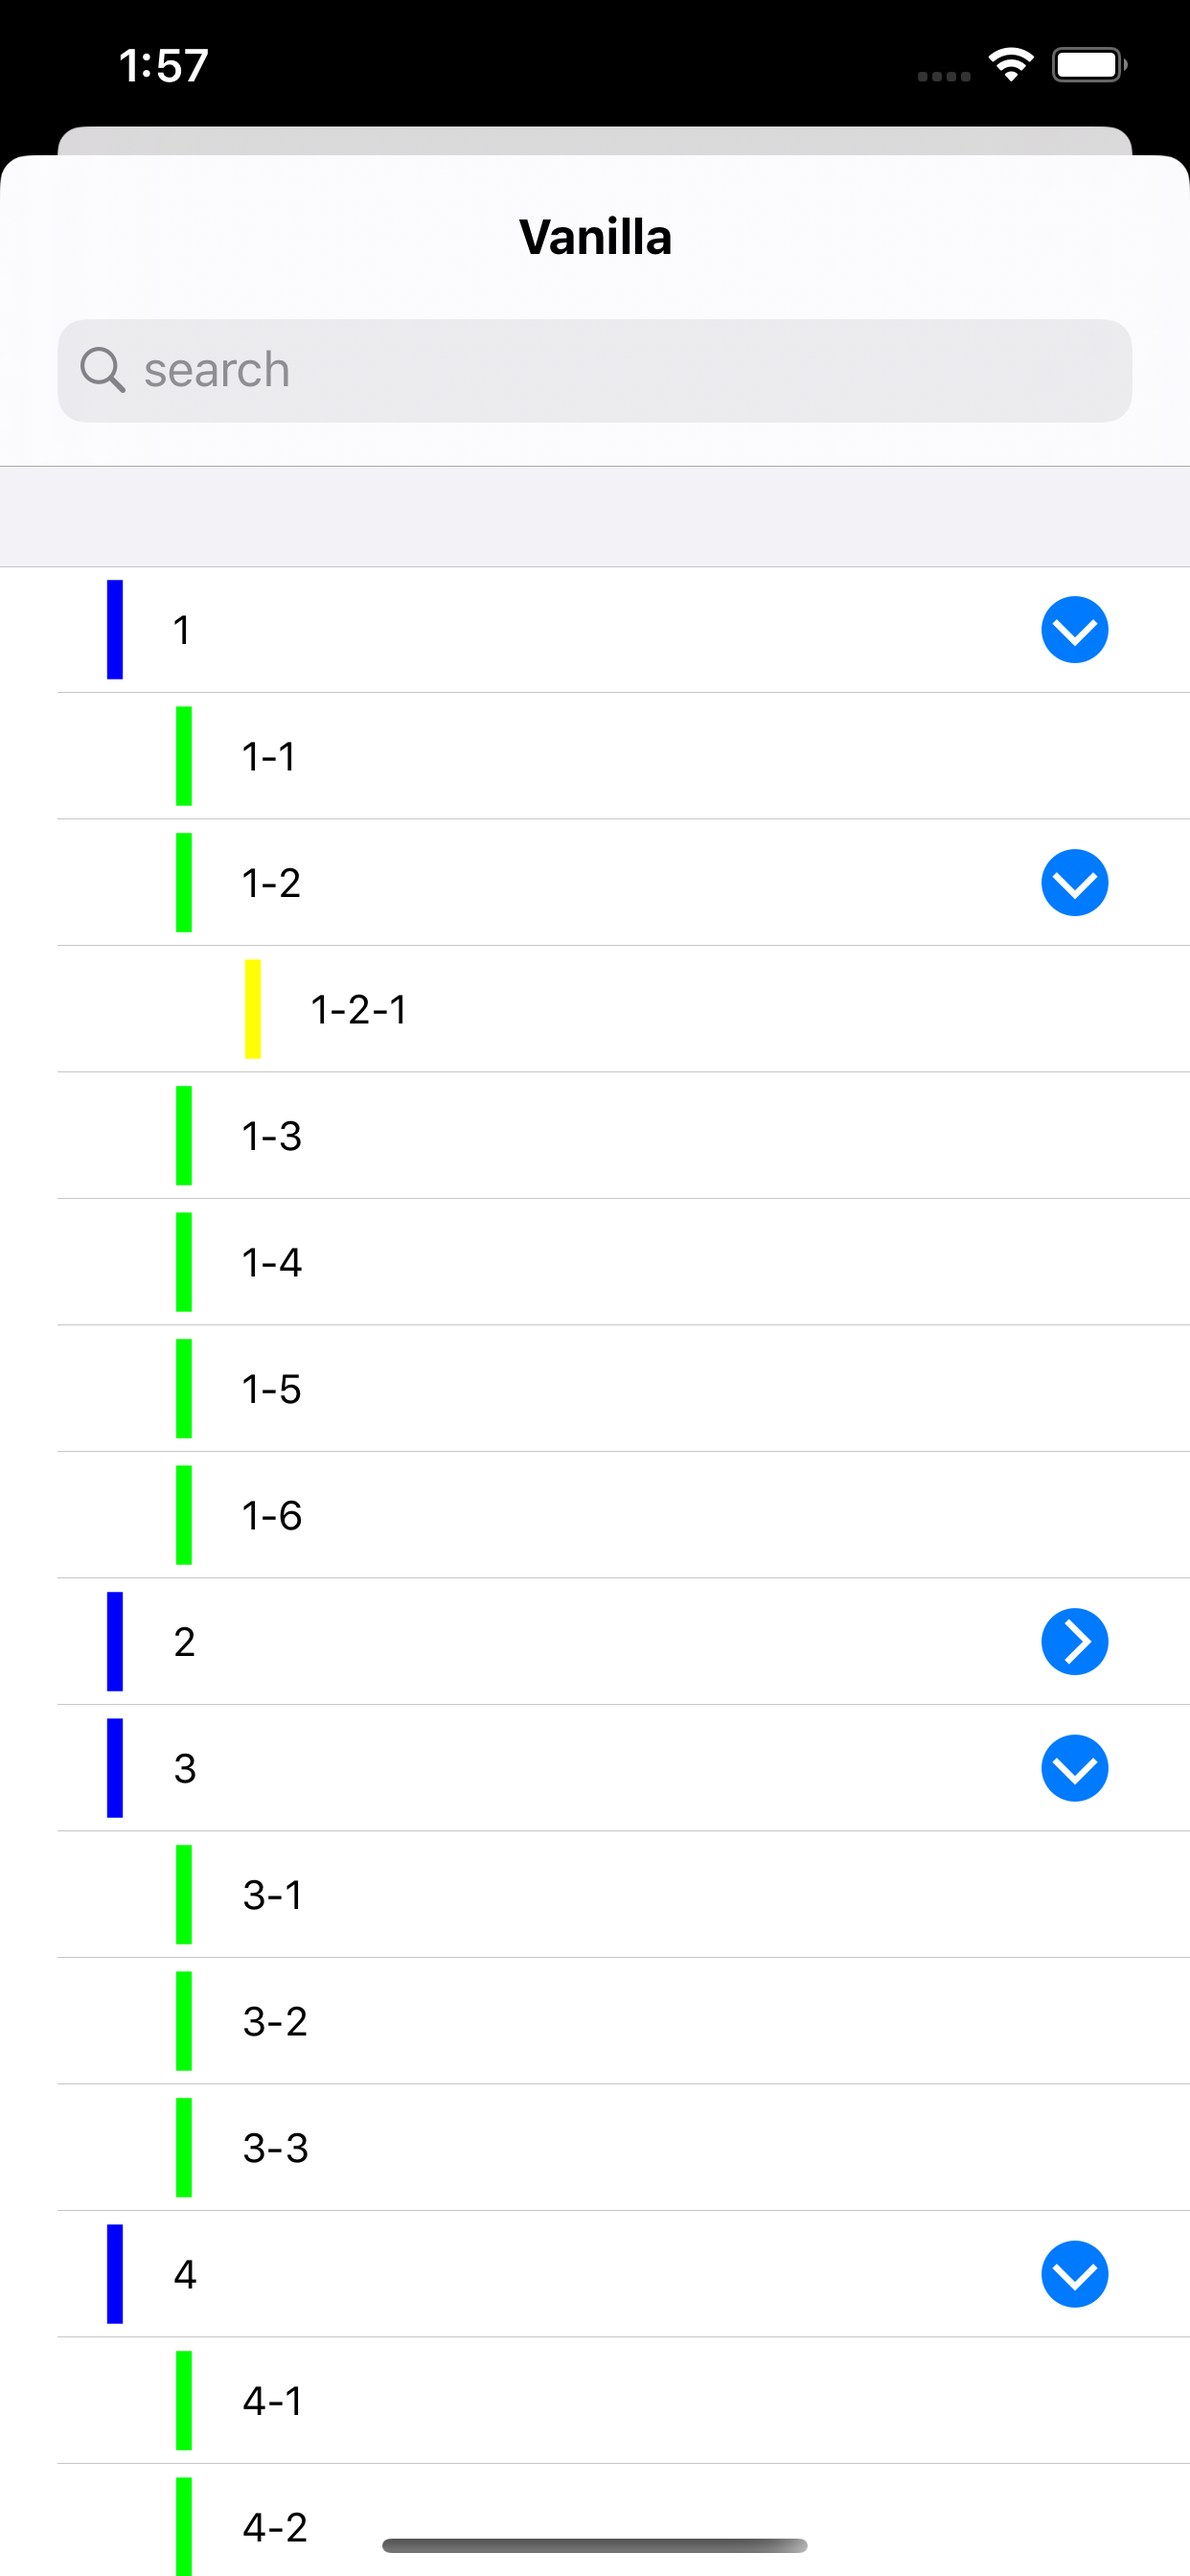
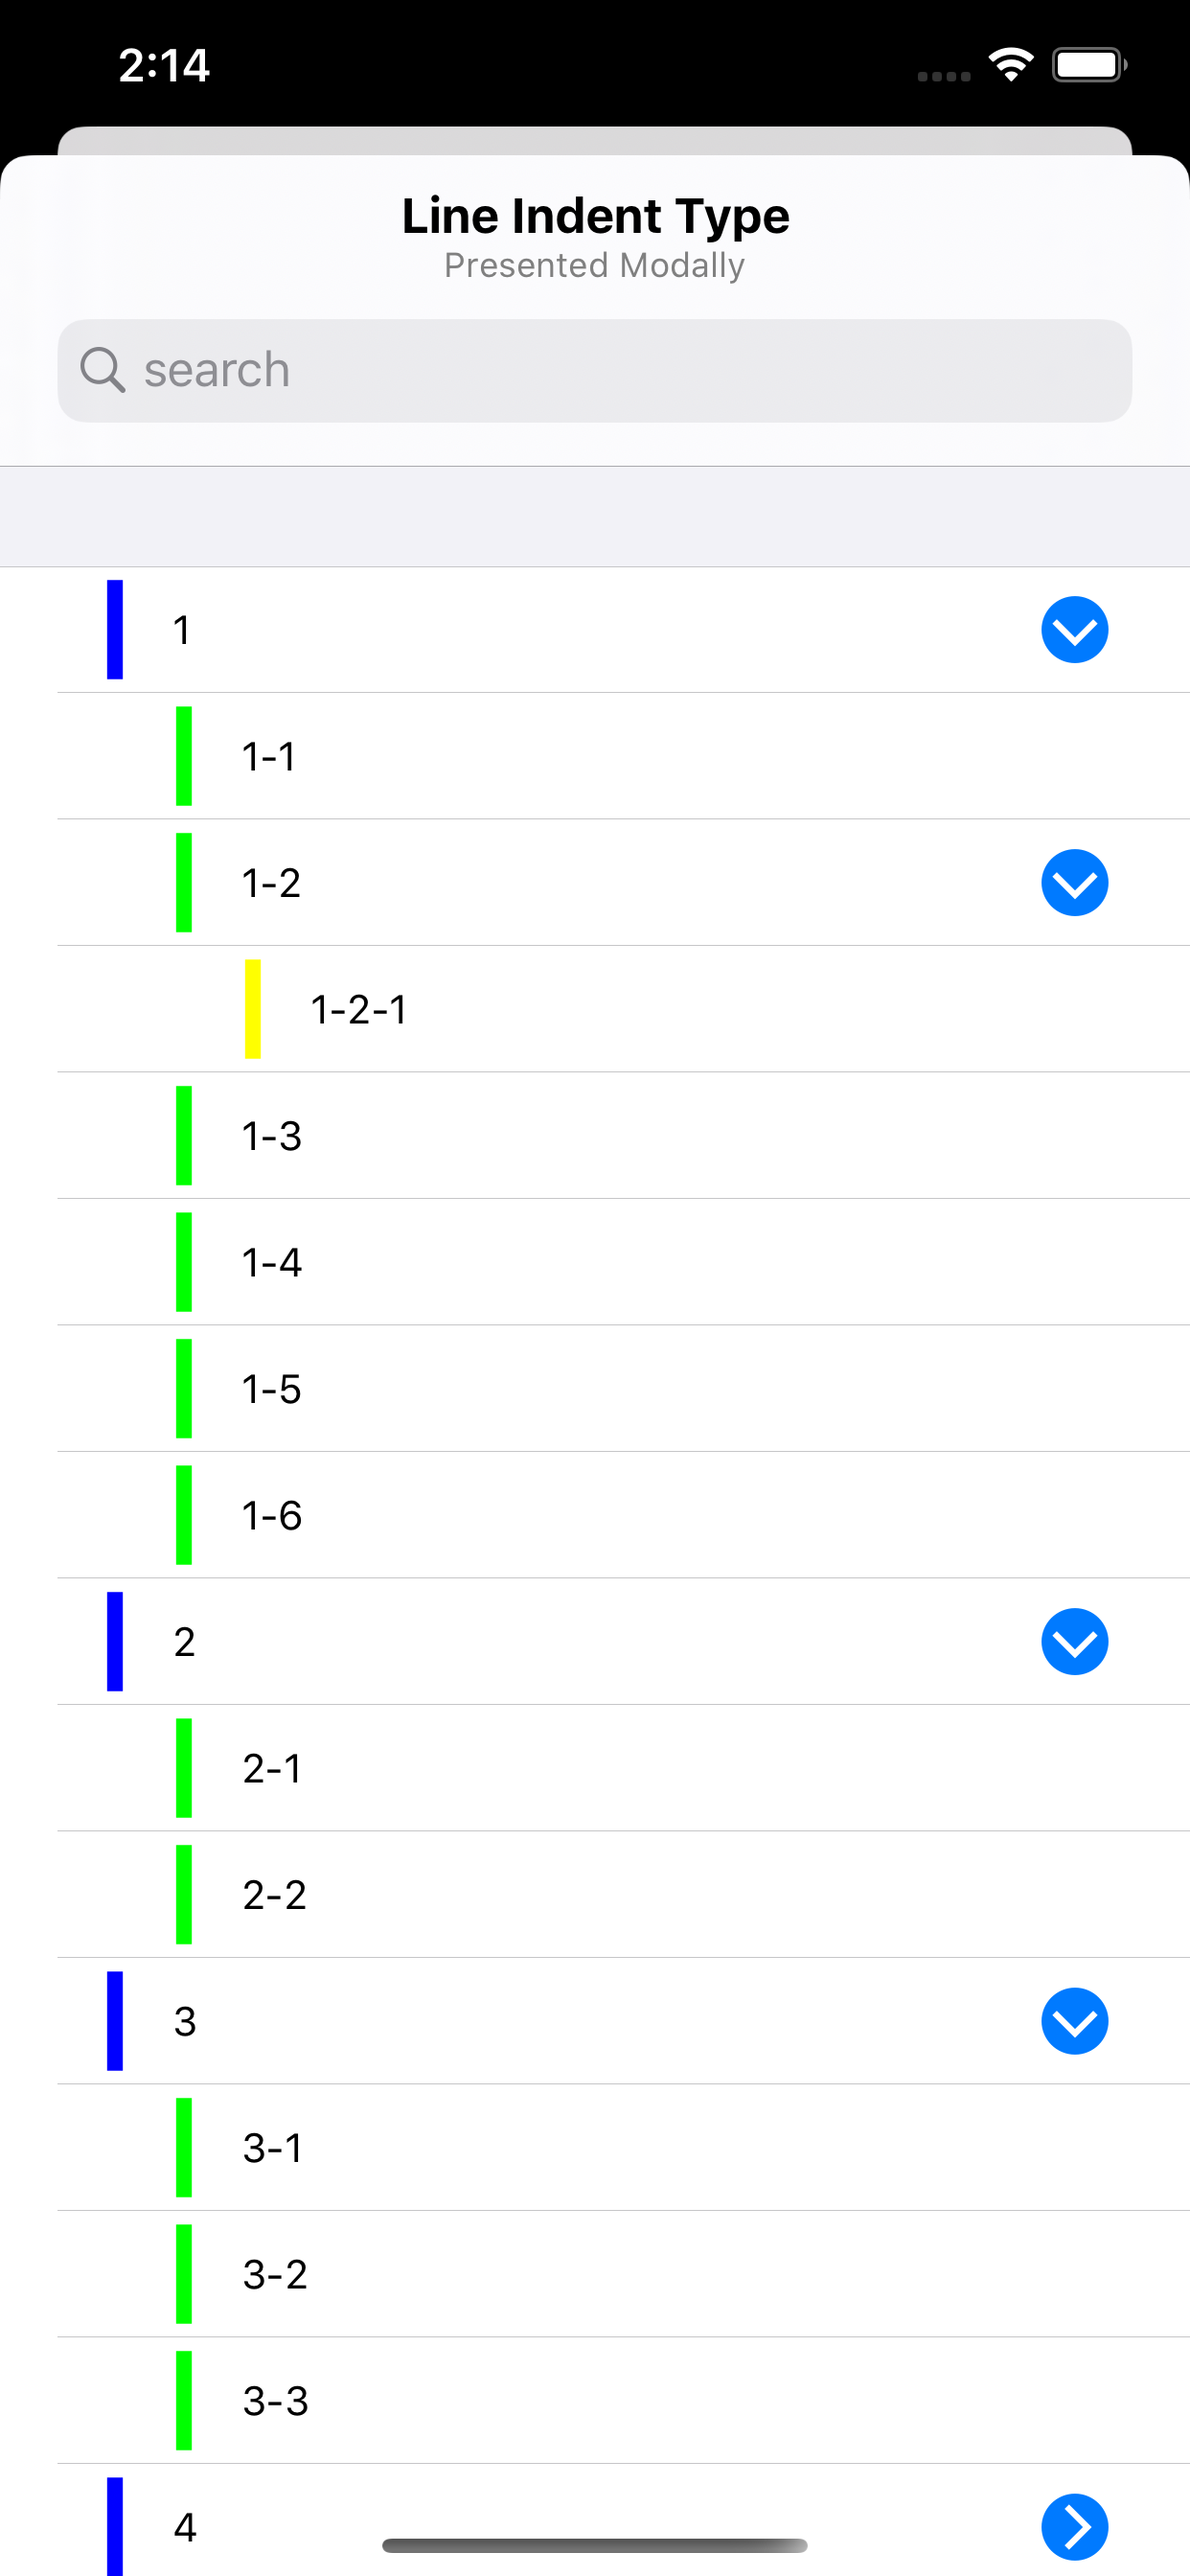
updated images 0.1.3

diff --git a/Example/ExpandablePicker/ViewController.swift b/Example/ExpandablePicker/ViewController.swift
@@ -55,7 +55,7 @@ class ViewController: UIViewController {
 
         // vanilla
         let vc = PickerViewController()
-        vc.set(title: "Vanilla", subtitle: nil)
+        vc.set(title: "Line Indent Type", subtitle: "Presented Modally")
         vc.datasource.data = datasource()
         vc.delegate = self
         let nc = UINavigationController(rootViewController: vc)
@@ -72,7 +72,7 @@ class ViewController: UIViewController {
         // root has no image
         let vc = PickerViewController()
         vc.delegate = self
-        vc.title = "No Root"
+        vc.set(title: "Arrow Indent Type", subtitle: "Presented as Push")
         vc.datasource.data = datasource()
         navigationController?.pushViewController(vc, animated: true)
     }
@@ -86,7 +86,7 @@ class ViewController: UIViewController {
         // no indent images at all
         let vc = PickerViewController()
         vc.delegate = self
-        vc.set(title: "No Indent", subtitle: "Here's a really long sub title just for funzies.")
+        vc.set(title: "None Indent Type", subtitle: "Presented as Push")
         vc.datasource.data = datasource(rootImageNormal: nil, childImageNormal: nil)
         navigationController?.pushViewController(vc, animated: true)
     }
@@ -100,7 +100,7 @@ class ViewController: UIViewController {
         // no indent images at all
         let vc = PickerViewController()
         vc.delegate = self
-        vc.set(title: "No Indent", subtitle: "Here's a really long sub title just for funzies.")
+        vc.set(title: "Custom Indent Type", subtitle: "Animating Indent Image")
         let normal = #imageLiteral(resourceName: "box_closed")
         let expanded = #imageLiteral(resourceName: "box_open")
         vc.datasource.data = datasource(rootImageNormal: normal, rootImageExpanded: expanded, childImageNormal: normal, childImageExpanded: expanded)
@@ -152,7 +152,8 @@ extension ViewController: PickerProtocol {
     
     func didSelectPickerData(with id: String, pvc: PickerViewController) {
         
-        guard let d = myPretendData.filter({ $0.id == id }).first else { return }
+        // guard let d = myPretendData.filter({ $0.id == id }).first else { return }
+        let d = Project(id: id, title: id, parentId: nil)
         
         if pvc.isModal {
             pvc.dismiss(animated: true) { [weak self] in

diff --git a/README.md b/README.md
@@ -9,12 +9,12 @@
 
 Motion-
 :-------------------------:|
-![picture](https://raw.githubusercontent.com/FishbowlInventory/SuperButton/master/ReadmeResources/example_150_half.gif) |
+![picture](https://raw.githubusercontent.com/FishbowlInventory/SuperButton/master/ReadmeResources/1.gif) |
 
 
-Three Buttons | Four Buttons | Five Buttons | Six Buttons | Seven Buttons
+Line Indent Type | Arrow Indent Type | None Indent Type | Custom Indent Type | Search
 :-------------------------:|:-------------------------:|:-------------------------:|:-------------------------:|:-------------------------:
-![picture](https://raw.githubusercontent.com/FishbowlInventory/ExpandablePicker/master/ReadmeResources/3.png)  |  ![picture](https://raw.githubusercontent.com/FishbowlInventory/ExpandablePicker/master/ReadmeResources/4.png)  |  ![picture](https://raw.githubusercontent.com/FishbowlInventory/ExpandablePicker/master/ReadmeResources/5.png)  |  ![picture](https://raw.githubusercontent.com/FishbowlInventory/ExpandablePicker/master/ReadmeResources/6.png)  |  ![picture](https://raw.githubusercontent.com/FishbowlInventory/ExpandablePicker/master/ReadmeResources/7.png) 
+![picture](https://raw.githubusercontent.com/FishbowlInventory/ExpandablePicker/master/ReadmeResources/1.png)  |  ![picture](https://raw.githubusercontent.com/FishbowlInventory/ExpandablePicker/master/ReadmeResources/2.png)  |  ![picture](https://raw.githubusercontent.com/FishbowlInventory/ExpandablePicker/master/ReadmeResources/3.png)  |  ![picture](https://raw.githubusercontent.com/FishbowlInventory/ExpandablePicker/master/ReadmeResources/4.png)  |  ![picture](https://raw.githubusercontent.com/FishbowlInventory/ExpandablePicker/master/ReadmeResources/5.png) 
 
 To run the example project, clone the repo, and run `pod install` from the Example directory first.
 
